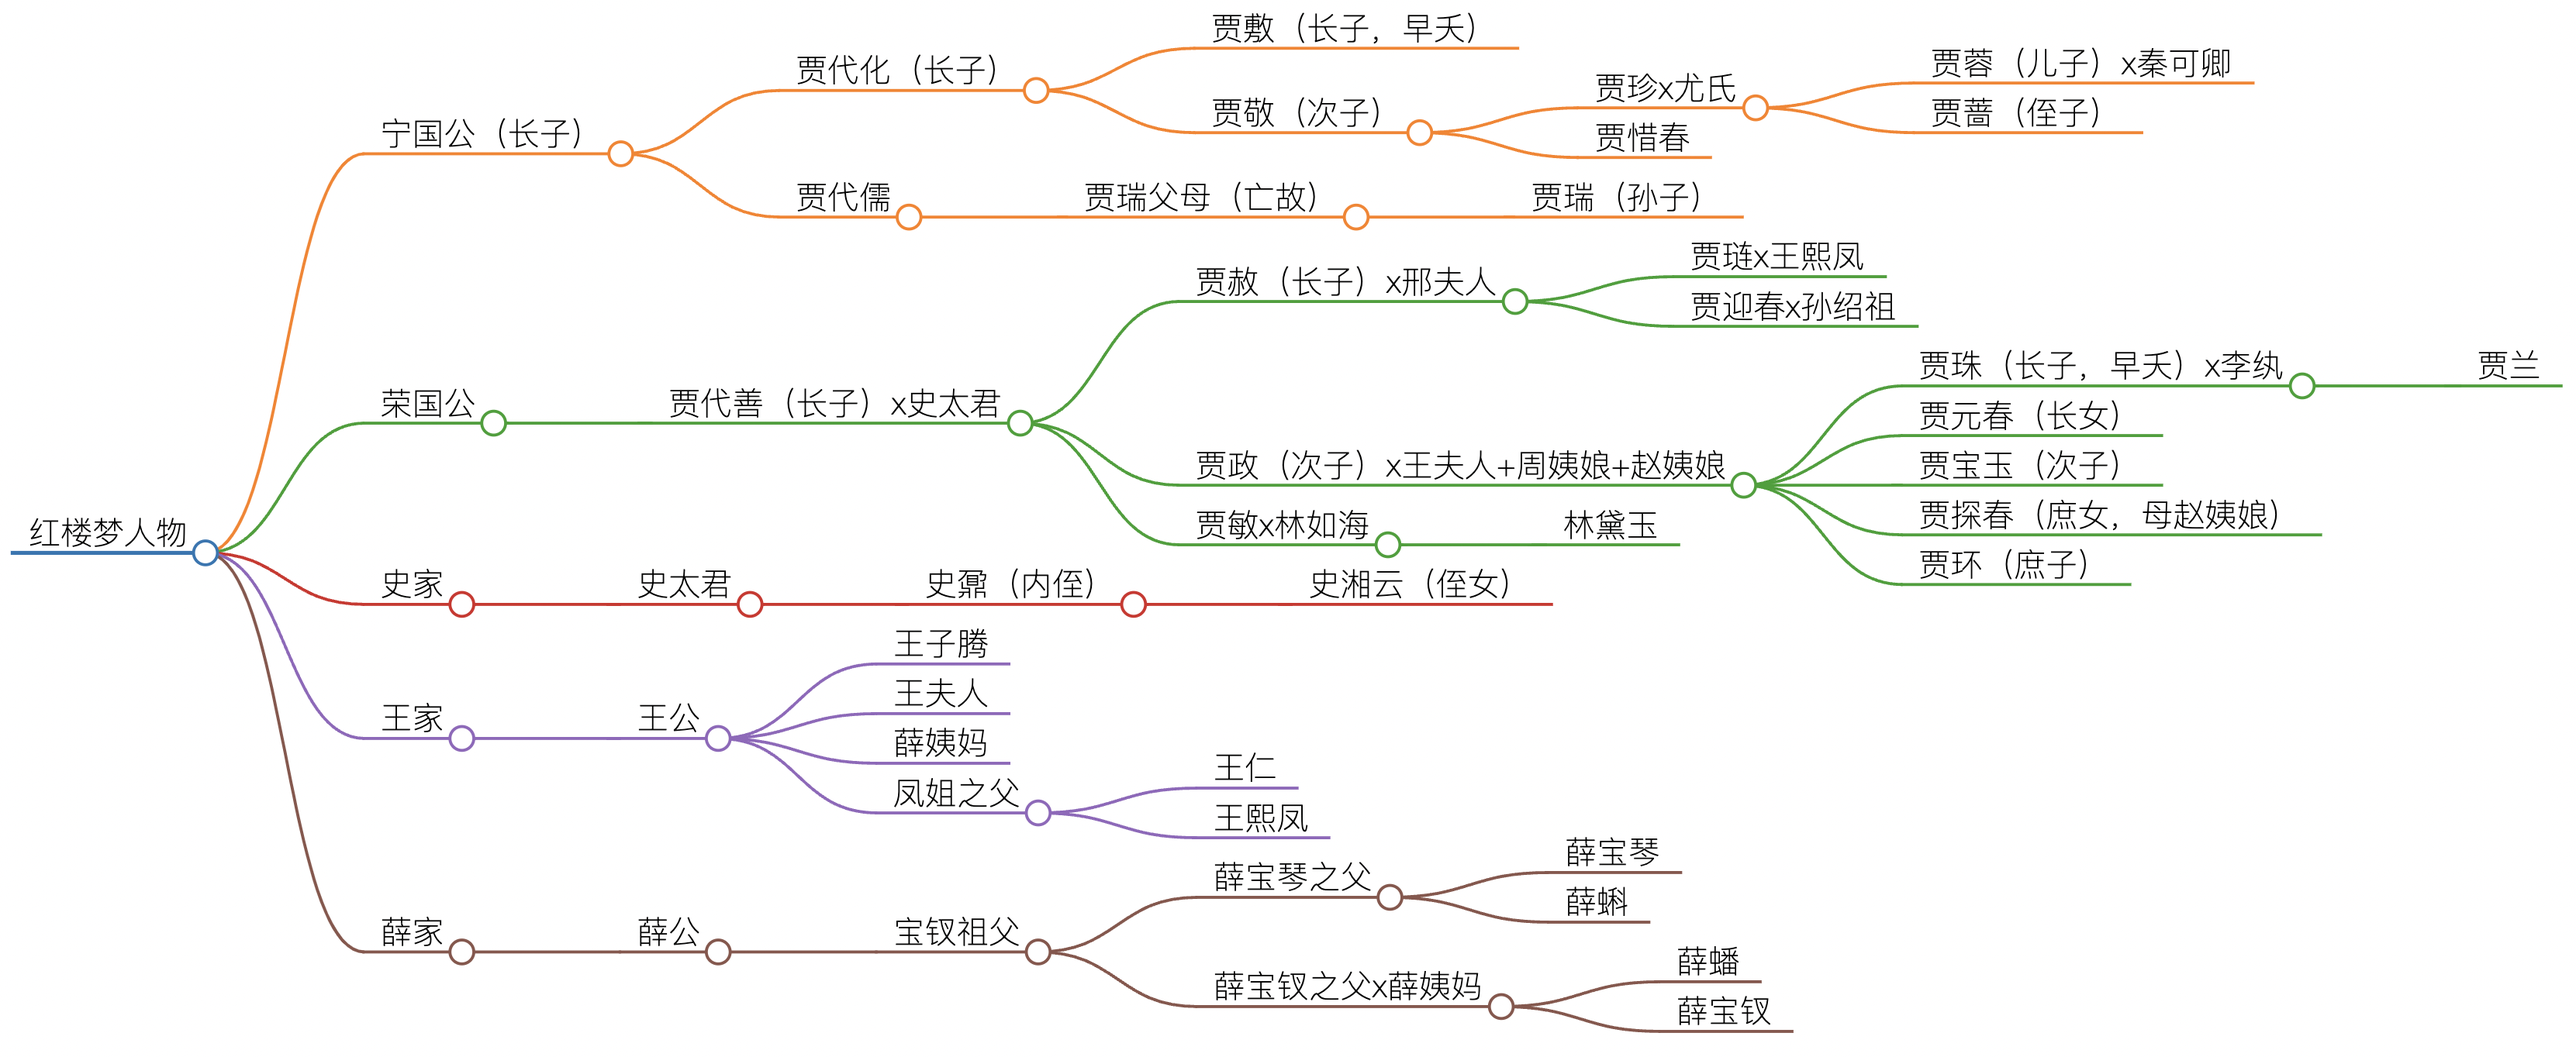
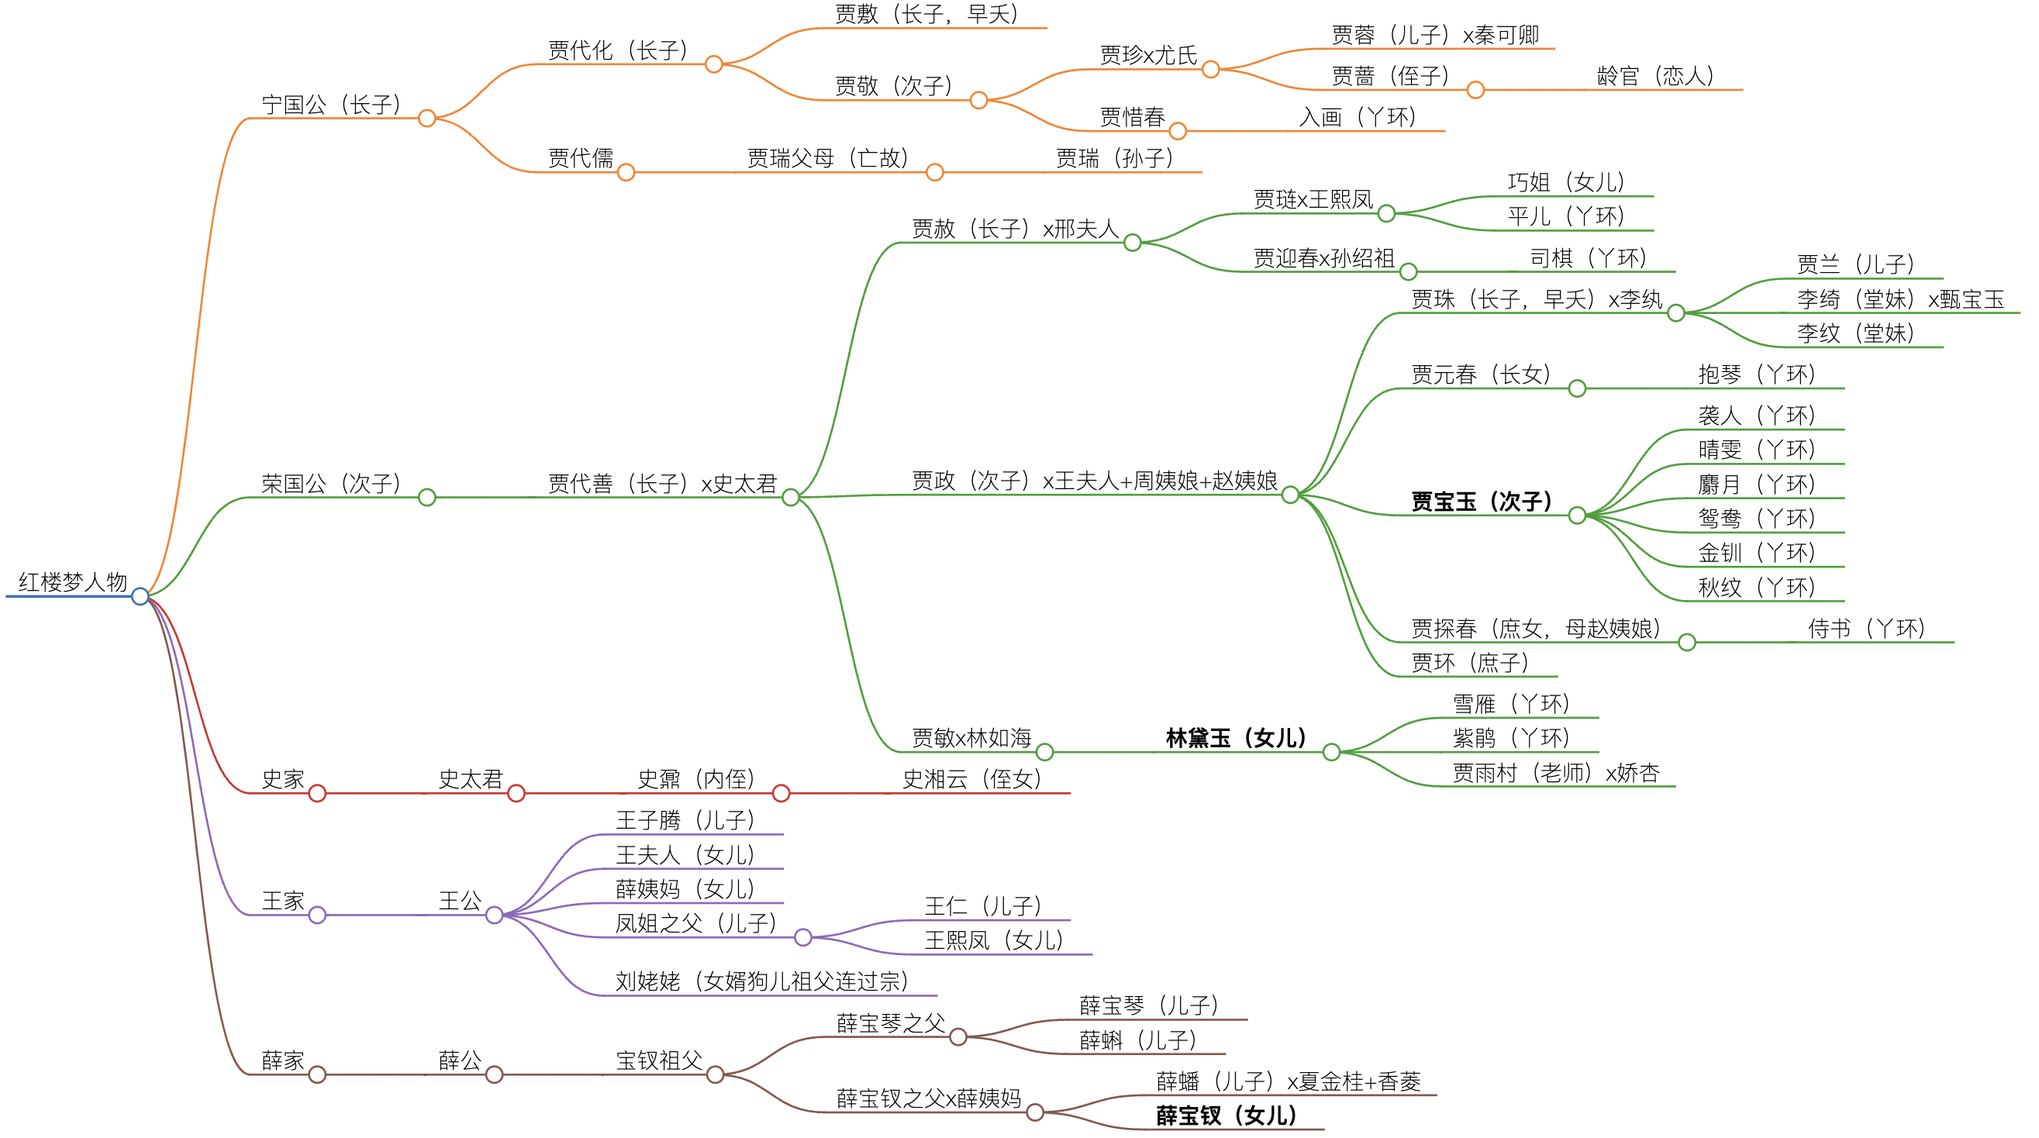
sync from discussion

diff --git a/source/_posts/红楼梦人物关系图谱.md b/source/_posts/红楼梦人物关系图谱.md
@@ -16,7 +16,11 @@ tags: [红楼梦]
 ###### 贾蓉（儿子）x秦可卿
 ###### 贾蔷（侄子）
 
+- 龄官（恋人）
+
 ##### 贾惜春
+
+- 入画（丫环）
 
 ### 贾代儒
 #### 贾瑞父母（亡故）
@@ -29,22 +33,48 @@ tags: [红楼梦]
 #### 贾赦（长子）x邢夫人
 
 ##### 贾琏x王熙凤
+
+###### 巧姐（女儿）
+###### 平儿（丫环）
+
 ##### 贾迎春x孙绍祖
+
+- 司棋（丫环）
 
 #### 贾政（次子）x王夫人+周姨娘+赵姨娘
 
 ##### 贾珠（长子，早夭）x李纨
 
 ###### 贾兰
+###### 李绮（堂妹）x甄宝玉
+###### 李纹（堂妹）
 
 ##### 贾元春（长女）
+
+- 抱琴（丫环）
+
 ##### 贾宝玉（次子）
+
+- 袭人（丫环）
+- 晴雯（丫环）
+- 麝月（丫环）
+- 鸳鸯（丫环）
+- 金钏（丫环）
+- 秋纹（丫环）
+
 ##### 贾探春（庶女，母赵姨娘）
+
+- 侍书（丫环）
+
 ##### 贾环（庶子）
 
 #### 贾敏x林如海
 
 ##### 林黛玉
+
+- 雪雁（丫环）
+- 紫鹃（丫环）
+- 贾雨村（老师）x娇杏
 
 ## 史家
 
@@ -58,13 +88,15 @@ tags: [红楼梦]
 
 ### 王公
 
-#### 王子腾
-#### 王夫人
-#### 薛姨妈
-#### 凤姐之父
+#### 王子腾（儿子）
+#### 王夫人（女儿）
+#### 薛姨妈（女儿）
+#### 凤姐之父（儿子）
 
-##### 王仁
-##### 王熙凤
+##### 王仁（儿子）
+##### 王熙凤（女儿）
+
+#### 刘姥姥（女婿狗儿祖父连过宗）
 
 ## 薛家
 
@@ -74,12 +106,12 @@ tags: [红楼梦]
 
 ##### 薛宝琴之父
 
-###### 薛宝琴
-###### 薛蝌
+###### 薛宝琴（儿子）
+###### 薛蝌（儿子）
 
 ##### 薛宝钗之父x薛姨妈
 
-###### 薛蟠
-###### 薛宝钗
+###### 薛蟠（儿子）x夏金桂+香菱
+###### **薛宝钗（女儿）**
 
 <img width="1000" alt="image" src="image.jpeg">
